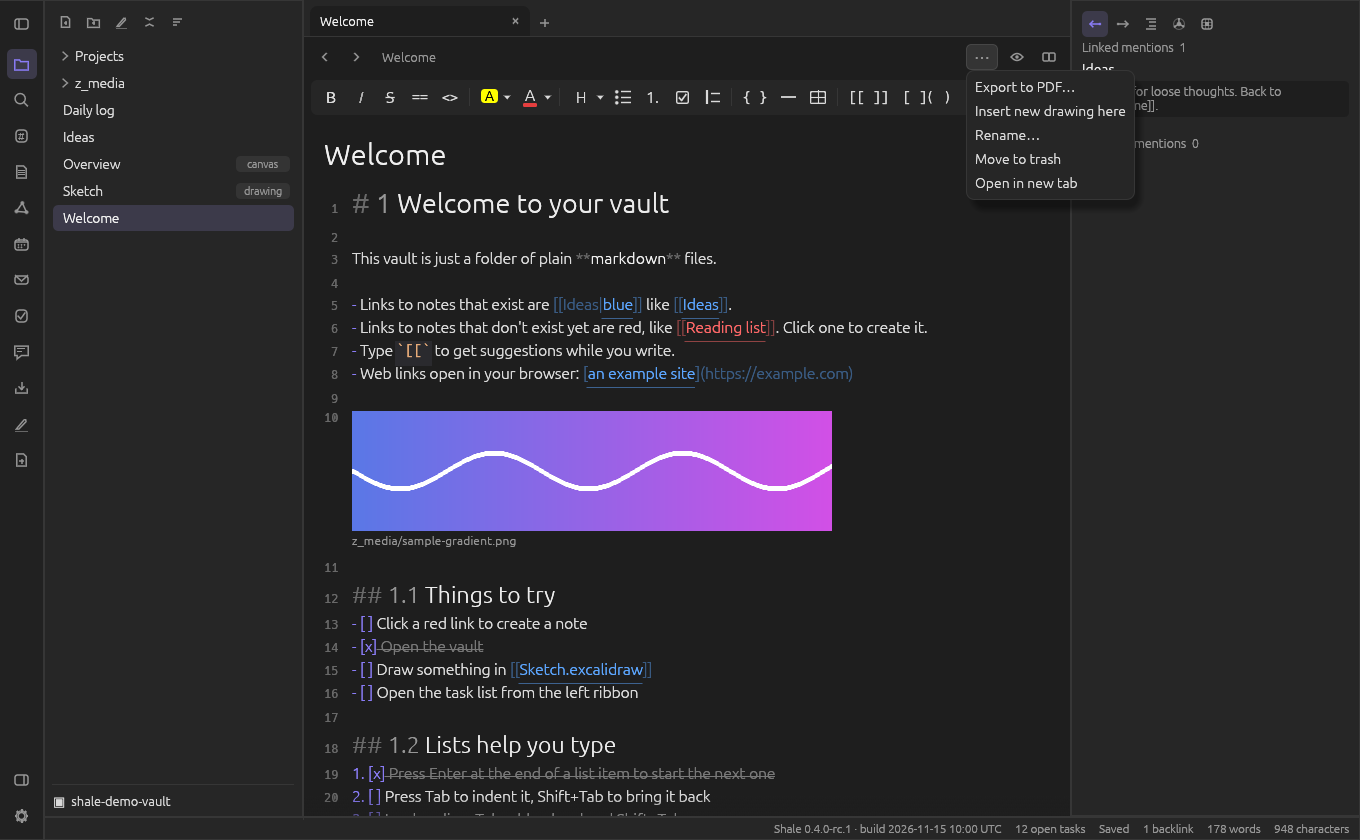
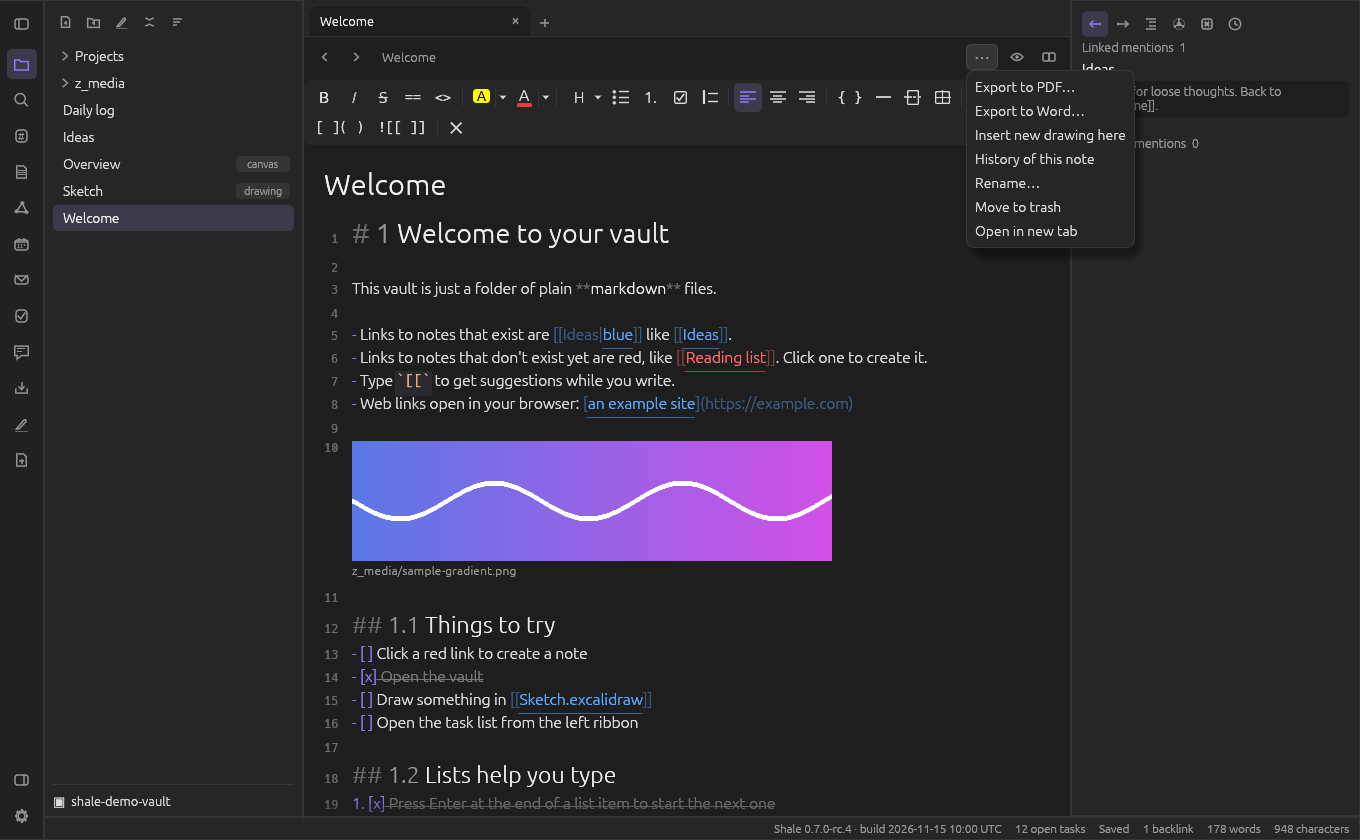
Word export: spec rows IS NOW, user guide, FEATURES, README, changelog, note menu screenshot; tests in export_tests.rs, the private file for pandoc's default reference
Refs #487

diff --git a/src/dialogs_ui_tests.rs b/src/dialogs_ui_tests.rs
@@ -991,10 +991,8 @@ fn docx_001_the_menu_of_a_note_in_the_file_tree_opens_the_word_dialog_and_other_
 // spec: DOCX-001
 #[test]
 fn docx_001_the_dialog_takes_the_contents_box_of_the_pdf_dialog_and_the_original_of_the_source_property() {
-    let mut p = P::with_files(
-        "docx-opens",
-        &[("A.md", "---\nprint-toc: false\n---\n# A\n"), ("Imports/Old.docx", "x"), ("B.md", "---\nsource: \"[[Imports/Old.docx]]\"\n---\n# B\n"), ("C.md", "---\nsource: \"[[Imports/Gone.docx]]\"\n---\n# C\n")],
-    );
+    let mut p =
+        P::with_files("docx-opens", &[("A.md", "---\nprint-toc: false\n---\n# A\n"), ("Imports/Old.docx", "x"), ("B.md", "---\nsource: \"[[Imports/Old.docx]]\"\n---\n# B\n"), ("C.md", "---\nsource: \"[[Imports/Gone.docx]]\"\n---\n# C\n")]);
     p.app.open_docx_export_dialog(Path::new("A.md"));
     let Some(Modal::ExportDocx(d)) = &p.app.modal else { panic!() };
     assert!(!d.toc, "print-toc: false, as the PDF dialog has it (PDF-008, PDF-013)");

diff --git a/src/docx_export/reference.rs b/src/docx_export/reference.rs
@@ -21,7 +21,7 @@ const STYLES: &str = "word/styles.xml";
 /// pandoc's default reference document (`pandoc --print-default-data-file reference.docx`), made in `dir`.
 pub fn default_reference(pandoc: &Path, dir: &Path, cancel: Option<&AtomicBool>) -> Result<Vec<u8>, String> {
     let path = dir.join("default-reference.docx");
-    let out = std::fs::File::create(&path).map_err(|e| format!("could not make a file in the temporary folder: {e}"))?;
+    let out = crate::fsutil::open_private_log(&path, false).map_err(|e| format!("could not make a file in the temporary folder: {e}"))?;
     let mut cmd = Command::new(pandoc);
     cmd.args(["--print-default-data-file", "reference.docx"]);
     let run = proc::run_to_file(cmd, out, Duration::from_secs(20), cancel).map_err(|e| format!("pandoc could not be started: {e}"))?;

diff --git a/src/docx_export.rs b/src/docx_export.rs
@@ -14,7 +14,7 @@ mod reference;
 mod xml;
 
 #[cfg(test)]
-mod tests;
+mod export_tests;
 
 use crate::pdf::tex::compile::WorkDir;
 use crate::pdf::tex::proc::{self, Ending};

diff --git a/docs/spec/word-export.md b/docs/spec/word-export.md
@@ -17,13 +17,13 @@ its look comes from its `print-*` properties (DOCX-008).
 
 | ID | Rule | Status | Code | Test |
 |---|---|---|---|---|
-| DOCX-001 | **Export to Word** (#487). A note's ⋯ menu and the context menu of a note in the file tree have the entry **Export to Word…** below *Export to PDF…* (not for drawings, other files or folders). It opens a dialog: *Save as* (a path field, `<vault>/exports/<note name>.docx`), the box **Use the original Word file as the template** (shown only when the note's `source:` property is a link to a `.docx` file of the vault that exists, DOCX-007; ticked), the box **Table of contents** (ticked as the PDF dialog's box would be for the note: `ExportOptions::with_note_properties`, PDF-008, PDF-013), the box **Open the file afterwards**, and *Export* and *Cancel*. A line says where pandoc was found, or, without pandoc, "pandoc was not found (Settings → Import)" and *Export* is disabled. The export does not need the Word import setting (IMP-036) to be on. | SHOULD BE | `docx_export/dialog.rs`, `layout.rs`, `panels.rs`, `app/docx_export.rs` | |
-| DOCX-002 | **The run** (#487). *Export* starts a background job (JOB-001) and the dialog shows that it works; closing the dialog cancels it. pandoc is run with an argument list, no shell, stdin closed, no console window on Windows (as the import, `pdf/tex/proc.rs`), in a private temporary folder outside the vault that is removed afterwards, and killed after 120 s: `pandoc note.md -f commonmark+pipe_tables+strikeout+footnotes+tex_math_dollars+wikilinks_title_after_pipe+autolink_bare_uris+task_lists -t docx --lua-filter=<filter> --resource-path=<vault folder> --reference-doc=<reference> -o out.docx`, with `--toc --toc-depth=3` when the box *Table of contents* is ticked. The filter (`assets/export/shale-docx-export.lua`) is built into the program and written to that folder. Only when pandoc ends with success and the file is finished (DOCX-009) is it written, atomically, at the path of the dialog (its folder made when missing); the vault is scanned again, the dialog closes, a toast names the file, and it is opened with the system's program when the box says so. A failure writes nothing and the dialog says why (pandoc's first error line). The text exported is the note as the window has it (unsaved typing included). | SHOULD BE | `docx_export/mod.rs` (`export`, `args`), `app/docx_export.rs` | |
-| DOCX-003 | **The text pandoc reads** (#487). The front matter is taken off. Every embed `![[target]]` (with `#…` and `\|…` after the target or not) whose target the vault resolves from the note (`Vault::resolve`, LINK-*) is written with the vault path of its file instead of the target (`![[z_media/a b.png\|300]]`), so pandoc finds it below the vault folder (`--resource-path`); an embed that does not resolve and anything in fenced code or inline code is left as it is. | SHOULD BE | `docx_export/mod.rs` (`prepare_text`) | |
-| DOCX-004 | **Formatting back to Word** (#487). The filter turns Shale's Markdown back into Word formatting: `==text==` and `<mark>` without a colour and with `background: #FFFF00` are Word's yellow highlight; `<span style="color: #RRGGBB;">` is a text colour and `<mark style="background: #RRGGBB;">` another background, each written as a character style with the colours (DOCX-009) named `Shale colour RRGGBB`, `Shale colour RRGGBB on RRGGBB` or `Shale on RRGGBB` (a run has one style, so a colour inside a background, or the other way round, is one style of both), and bold, italic and the other formatting inside them stay; `<u>` underline, `<sub>` and `<sup>` sub and superscript, `<s>` and `~~…~~` strike-through; `<br>` and a new line inside a paragraph are a line break (IMP-037 writes Word's line breaks as new lines); a tag without its end is left out. A link `[[note]]` or `[[note\|words]]` is its words (the note's name without `.md`, `#` as ` > `), as it has no place in the Word file. Footnotes, tables (pipe tables), lists, tasks, quotes, code, math (`$…$`, `$$…$$`, Word's equations) and web links are pandoc's own. | SHOULD BE | `assets/export/shale-docx-export.lua` (`inlines`, `marks`, `tags`, `wikilink`) | |
-| DOCX-005 | **Pictures and captions** (#487). An embed of a picture (png, jpg, jpeg, gif, bmp, tif, tiff, svg, emf, wmf, any case) is a picture in Word; its width is the share of the text width it has in the editor (`\|360` is half of the 720-point column, PDF-005, at most the whole width), without a width it keeps its own size; words after `\|` that are no size are its alternative text. Any other embed (a note, a PDF, a sound, a drawing) is its file name in italics. A paragraph that holds only a picture, followed by a paragraph that is all italic (what the import makes of a Word caption, IMP-037), becomes a picture with that caption (pandoc's *Captioned Figure* and *Image Caption*), and the caption is the picture's alternative text too. | SHOULD BE | `assets/export/shale-docx-export.lua` (`embed`, `caption`, `blocks`) | |
-| DOCX-006 | **Page breaks, alignment and the title** (#487). A page-break marker (PDF-020) is a page break. The paragraphs and headings in an alignment wrapper (PDF-028) are centred, flush right, justified or left (`w:jc` `center`, `right`, `both`, `left`, set by DOCX-009 from a mark the filter puts in each); an opening line without its closing line aligns nothing, and the wrapper lines are never text. The title block the import writes (IMP-042, IMP-046): a centred wrapper as the first thing of the note holding a `#` heading and at most an italic paragraph below it, becomes Word's *Title* and *Subtitle*, not a heading. | SHOULD BE | `assets/export/shale-docx-export.lua` (`blocks`, `title`, `page_break`) | |
-| DOCX-007 | **The original as the template** (#487). With the box ticked (DOCX-001) the reference document is a copy of the original Word file, so its styles, fonts, numbering, headers and footers come back. pandoc adds none of its own styles when the reference is a real Word file, so Shale first merges into the copy's `word/styles.xml` every style of pandoc's default reference (`pandoc --print-default-data-file reference.docx`) whose id and name (case ignored) the original lacks: *Body Text* without its paragraph spacing (the body keeps the original's Normal), and a `w:basedOn`, `w:next` or `w:link` that names a style of pandoc's is renamed to the id of the original's style with the same name (a German Word file calls Normal `Standard`). Without the box, or without an original, the reference is made from the note (DOCX-008). | SHOULD BE | `docx_export/reference.rs` (`merge_styles`, `from_original`) | |
-| DOCX-008 | **The template from the note's print settings** (#487). Without an original the reference document is pandoc's default with the note's `print-*` properties (PDF-013, read as the PDF export reads them, a bad value ignored) laid into `word/styles.xml`: `print-font` (`serif` Times New Roman, `sans` Calibri, `mono` Courier New) for the defaults and every style that names a theme font, `print-font-size` (the defaults' `w:sz`), `print-line-spacing` (`w:line` = factor × 240, `auto`), `print-paragraph-spacing` (`w:after` = pt × 20 in the defaults; *Body Text* loses its own spacing), `print-align: justify` (Normal `w:jc both`, the headings `left`), `print-heading-color` (Heading 1 to 9 and Title), `print-heading-weight` (bold or not), `print-heading-sizes` (Heading 1 to 6) and `print-break-before` (`w:pageBreakBefore` for the headings up to that level). A note without these properties gets pandoc's default look. The Word import of such a file gives the same properties back. | SHOULD BE | `docx_export/reference.rs` (`from_props`) | |
-| DOCX-009 | **Finishing the file** (#487). After pandoc, Shale changes the docx: a paragraph with the filter's mark (DOCX-006) gets its `w:jc` (in the order of the schema, an old one replaced) and the mark goes; a character style `Shale colour …` / `Shale on …` gets `w:color` and a `w:shd` fill; the last `w:sectPr` of the body gets the page of `print-paper` (`w:pgSz`, landscape when wider than tall) and `print-margins` (`w:pgMar`, keeping its header, footer and gutter distances) when the note has them, because pandoc takes the page of the first section of a reference with several; a picture in `word/media/` that no relationship names is left out (pandoc copies the reference's media). The parts are packed again, compressed (deflate), `[Content_Types].xml` first. A file that cannot be finished is an error of the export. | SHOULD BE | `docx_export/finish.rs` (`finish`) | |
-| DOCX-010 | **Word export tests** (#487). The fixtures of the import (`src/testdata/docx/`, IMP-039) are imported with the real pandoc, exported again and read back by pandoc as plain text: the words of `styled`, `picture` and `tables` all come back, of `text` at least 95 % (small caps and the definition list are lost at import); `styled` comes back with its colours, highlights, page breaks, Title, Subtitle and Letter paper. The text preparation, the merging and generating of styles and the finishing are tested without pandoc; the tests that run pandoc skip with a printed note without it (BUILD-018). `scripts/roundtrip-docx.sh <file.docx>` (a developer tool, DEV-004) does the round trip for any Word file and prints the share of words that came back. | SHOULD BE | `docx_export/tests.rs`, `scripts/roundtrip-docx.sh` | |
+| DOCX-001 | **Export to Word** (#487). A note's ⋯ menu and the context menu of a note in the file tree have the entry **Export to Word…** below *Export to PDF…* (not for drawings, other files or folders). It opens a dialog: *Save as* (a path field, `<vault>/exports/<note name>.docx`), the box **Use the original Word file as the template** (shown only when the note's `source:` property is a link to a `.docx` file of the vault that exists, DOCX-007; ticked), the box **Table of contents** (ticked as the PDF dialog's box would be for the note: `ExportOptions::with_note_properties`, PDF-008, PDF-013), the box **Open the file afterwards**, and *Export* and *Cancel*. A line says where pandoc was found, or, without pandoc, "pandoc was not found (Settings → Import)" and *Export* is disabled. The export does not need the Word import setting (IMP-036) to be on. | IS NOW | `docx_export/dialog.rs`, `app/docx_export.rs`, `layout.rs`, `panels.rs` | `docx_export/export_tests.rs::dialog_tests::the_dialog_has_the_save_path_the_table_of_contents_open_after_and_export_and_cancel`, `docx_export/export_tests.rs::dialog_tests::the_box_for_the_original_is_there_with_an_original_and_ticked`, `docx_export/export_tests.rs::dialog_tests::without_pandoc_the_dialog_says_so_and_export_is_disabled`, `docx_export/export_tests.rs::the_original_is_the_word_file_the_source_property_links_to`, `dialogs_ui_tests.rs::docx_001_the_menu_of_a_note_in_the_file_tree_opens_the_word_dialog_and_other_files_have_no_entry`, `dialogs_ui_tests.rs::docx_001_the_dialog_takes_the_contents_box_of_the_pdf_dialog_and_the_original_of_the_source_property`, `dialogs_ui_tests.rs::docx_001_without_pandoc_the_dialog_says_so_and_export_does_nothing`, `format_bar_ui_tests.rs::the_menu_of_a_note_has_export_to_word_below_export_to_pdf_and_it_opens_the_dialog` |
+| DOCX-002 | **The run** (#487). *Export* starts a background job (JOB-001) and the dialog shows that it works; closing the dialog cancels it. pandoc is run with an argument list, no shell, stdin closed, no console window on Windows (as the import, `pdf/tex/proc.rs`), in a private temporary folder outside the vault that is removed afterwards, and killed after 120 s: `pandoc note.md -f commonmark+pipe_tables+strikeout+footnotes+tex_math_dollars+wikilinks_title_after_pipe+autolink_bare_uris+task_lists -t docx --lua-filter=<filter> --resource-path=<vault folder> --reference-doc=<reference> [--toc --toc-depth=3] -M shale-text-width=<inches> -o out.docx`, with `--toc --toc-depth=3` when the box *Table of contents* is ticked; the width is that of the text of the page (DOCX-005). The filter (`assets/export/shale-docx-export.lua`) is built into the program and written to that folder. Only when pandoc ends with success and the file is finished (DOCX-009) is it written, atomically, at the path of the dialog (its folder made when missing); the vault is scanned again, the dialog closes, a toast names the file, and it is opened with the system's program when the box says so. A failure writes nothing and the dialog says why (pandoc's first error line). The text exported is the note as the window has it (unsaved typing included). | IS NOW | `docx_export.rs` (`export`, `args`), `docx_export/dialog.rs`, `app/docx_export.rs`, `pdf/tex/proc.rs` (`run_to_file`), `opener.rs` (`open_exported_docx`) | `docx_export/export_tests.rs::pandoc_is_started_with_an_argument_list_for_the_note_the_filter_the_folder_and_the_reference`, `docx_export/export_tests.rs::pandoc_runs_in_a_folder_of_its_own_with_the_arguments_and_a_failure_writes_nothing_and_says_why`, `docx_export/export_tests.rs::pandoc_is_killed_after_the_time_and_when_the_export_is_cancelled`, `docx_export/export_tests.rs::a_pandoc_that_is_missing_is_an_error_and_so_is_an_original_that_is_no_word_file`, `docx_export/export_tests.rs::the_table_of_contents_is_there_when_asked_down_to_the_third_level`, `docx_export/export_tests.rs::dialog_tests::the_export_runs_as_a_job_the_dialog_shows_it_and_cancel_and_closing_stop_it`, `dialogs_ui_tests.rs::docx_002_export_runs_as_a_job_saves_the_file_where_asked_scans_the_vault_and_closes`, `dialogs_ui_tests.rs::docx_002_a_pandoc_that_fails_leaves_the_dialog_open_with_its_first_error_line_and_writes_nothing`, `opener.rs::an_exported_word_file_is_a_docx`, `pdf/tex/proc.rs::the_standard_output_of_a_program_can_go_to_a_file` |
+| DOCX-003 | **The text pandoc reads** (#487). The front matter is taken off. Every embed `![[target]]` (with `#…` and `\|…` after the target or not) whose target the vault resolves from the note (`Vault::resolve`, LINK-*) is written with the vault path of its file instead of the target (`![[z_media/a b.png\|300]]`), so pandoc finds it below the vault folder (`--resource-path`); an embed that does not resolve and anything in fenced code or inline code is left as it is. | IS NOW | `docx_export.rs` (`prepare_text`) | `docx_export/export_tests.rs::the_front_matter_is_taken_off_and_a_note_without_it_stays`, `docx_export/export_tests.rs::an_embed_that_resolves_has_the_vault_path_of_its_file_with_what_follows_the_target`, `docx_export/export_tests.rs::nothing_in_code_is_changed` |
+| DOCX-004 | **Formatting back to Word** (#487). The filter turns Shale's Markdown back into Word formatting: `==text==` and `<mark>` without a colour and with `background: #FFFF00` are Word's yellow highlight; `<span style="color: #RRGGBB;">` is a text colour and `<mark style="background: #RRGGBB;">` another background, each written as a character style with the colours (DOCX-009) named `Shale colour RRGGBB`, `Shale colour RRGGBB on RRGGBB` or `Shale on RRGGBB` (a run has one style, so a colour inside a background, or the other way round, is one style of both), and bold, italic and the other formatting inside them stay; `<u>` underline, `<sub>` and `<sup>` sub and superscript, `<s>` and `~~…~~` strike-through; `<br>` and a new line inside a paragraph are a line break (IMP-037 writes Word's line breaks as new lines); a tag without its end is left out. A link `[[note]]` or `[[note\|words]]` is its words (the note's name without `.md`, `#` as ` > `), as it has no place in the Word file. Footnotes, tables (pipe tables), lists, tasks, quotes, code, math (`$…$`, `$$…$$`, Word's equations) and web links are pandoc's own. | IS NOW | `assets/export/shale-docx-export.lua` (`inlines`, `marks`, `tags`, `wikilink`) | `docx_export/export_tests.rs::a_mark_and_a_yellow_background_are_words_yellow_highlight`, `docx_export/export_tests.rs::a_text_colour_and_a_background_are_a_character_style_of_the_colours_and_other_formatting_stays_inside`, `docx_export/export_tests.rs::underline_sub_and_superscript_strike_through_and_line_breaks`, `docx_export/export_tests.rs::a_tag_without_its_end_is_left_out_and_a_link_to_a_note_is_its_words`, `docx_export/export_tests.rs::footnotes_tables_lists_tasks_quotes_code_math_and_web_links_are_pandocs_own` |
+| DOCX-005 | **Pictures and captions** (#487). An embed of a picture (png, jpg, jpeg, gif, bmp, tif, tiff, svg, emf, wmf, any case) is a picture in Word; its width is the share of the text width that it has in the editor (`\|360` is half of the 720-point column, PDF-005, at most the whole width), taken of the width of the text of the Word page, which Shale gives the filter in inches (`shale-text-width`, DOCX-002: pandoc's docx writer takes no width as a share of the page); without a width it keeps its own size; words after `\|` that are no size are its alternative text. Any other embed (a note, a PDF, a sound, a drawing) is its file name in italics. A paragraph that holds only a picture, followed by a paragraph that is all italic (what the import makes of a Word caption, IMP-037), becomes a picture with that caption (pandoc's *Captioned Figure* and *Image Caption*), and the caption is the picture's alternative text too. | IS NOW | `assets/export/shale-docx-export.lua` (`embed`, `caption`, `blocks`), `docx_export/reference.rs` (`text_width`) | `docx_export/export_tests.rs::a_picture_is_as_wide_as_in_the_editor_and_other_embeds_are_their_names_in_italics`, `docx_export/export_tests.rs::a_picture_alone_followed_by_an_italic_paragraph_is_a_picture_with_its_caption`, `docx_export/export_tests.rs::the_text_width_is_that_of_the_notes_page_else_of_the_first_section_of_the_reference_else_words_default`, `docx_export/export_tests.rs::the_picture_comes_back_as_a_picture_with_its_caption_and_alternative_text_and_the_originals_pictures_are_not_copied` |
+| DOCX-006 | **Page breaks, alignment and the title** (#487). A page-break marker (PDF-020) is a page break. The paragraphs and headings in an alignment wrapper (PDF-028) are centred, flush right, justified or left (`w:jc` `center`, `right`, `both`, `left`, set by DOCX-009 from a mark the filter puts in each); an opening line without its closing line aligns nothing, and the wrapper lines are never text. The title block the import writes (IMP-042, IMP-046): a centred wrapper as the first thing of the note holding a `#` heading and at most an italic paragraph below it, becomes Word's *Title* and *Subtitle*, not a heading. | IS NOW | `assets/export/shale-docx-export.lua` (`blocks`, `title`, `page_break`), `docx_export/finish.rs` (`alignment`) | `docx_export/export_tests.rs::a_page_break_marker_is_a_page_break`, `docx_export/export_tests.rs::paragraphs_and_headings_in_an_alignment_wrapper_are_aligned_and_the_wrapper_lines_are_no_text`, `docx_export/export_tests.rs::the_title_block_the_import_writes_is_words_title_and_subtitle`, `docx_export/export_tests.rs::a_marked_paragraph_gets_its_jc_in_the_order_of_the_schema_and_the_mark_goes` |
+| DOCX-007 | **The original as the template** (#487). With the box ticked (DOCX-001) the reference document is a copy of the original Word file, so its styles, fonts, numbering, headers and footers come back. pandoc adds none of its own styles when the reference is a real Word file, so Shale first merges into the copy's `word/styles.xml` every style of pandoc's default reference (`pandoc --print-default-data-file reference.docx`) whose id and name (case ignored) the original lacks: *Body Text* without its paragraph spacing (the body keeps the original's Normal), without a `w:default` (the original has its defaults), and a `w:basedOn`, `w:next` or `w:link` that names a style of pandoc's is renamed to the id of the original's style with the same name (a German Word file calls Normal `Standard`). Without the box, or without an original, the reference is made from the note (DOCX-008). | IS NOW | `docx_export/reference.rs` (`merge_styles`, `from_original`) | `docx_export/export_tests.rs::the_styles_of_pandoc_are_merged_into_the_originals_without_double_ones`, `docx_export/export_tests.rs::a_style_that_names_another_of_pandoc_is_renamed_to_the_id_the_original_has_for_that_name`, `docx_export/export_tests.rs::the_template_is_a_copy_of_the_original_with_its_parts_and_the_merged_styles`, `docx_export/export_tests.rs::the_original_of_a_word_file_is_the_template_with_its_styles_and_the_styles_pandoc_needs_merged_in` |
+| DOCX-008 | **The template from the note's print settings** (#487). Without an original the reference document is pandoc's default with the note's `print-*` properties (PDF-013, read as the PDF export reads them, a bad value ignored) laid into `word/styles.xml`: `print-font` (`serif` Times New Roman, `sans` Calibri, `mono` Courier New) for the defaults and every style that names a theme font, `print-font-size` (the defaults' `w:sz`), `print-line-spacing` (`w:line` = factor × 240, `auto`), `print-paragraph-spacing` (`w:after` = pt × 20 in the defaults; *Body Text* loses its own spacing), `print-align: justify` (Normal `w:jc both`, the headings `left`), `print-heading-color` (Heading 1 to 9 and Title), `print-heading-weight` (bold or not), `print-heading-sizes` (Heading 1 to 6) and `print-break-before` (`w:pageBreakBefore` for the headings up to that level). A note without these properties gets pandoc's default look. The Word import of such a file gives the same properties back (`print-break-before: 2` comes back as `1`: the import takes the first level that starts a page, IMP-044). | IS NOW | `docx_export/reference.rs` (`from_props`, `lay_props`), `docx_export/look.rs` (`PrintLook`), `docx_export/xml.rs` | `docx_export/export_tests.rs::every_print_property_is_laid_into_the_styles`, `docx_export/export_tests.rs::the_properties_are_put_where_the_schema_wants_them`, `docx_export/export_tests.rs::the_fonts_the_weight_and_the_page_break_level_follow_the_property`, `docx_export/export_tests.rs::a_bad_value_is_ignored_as_in_the_pdf_export_and_a_note_without_properties_gets_the_default_as_it_is`, `docx_export/export_tests.rs::the_word_import_gives_the_properties_back`, `docx_export/export_tests.rs::a_note_without_an_original_gets_a_reference_from_its_print_properties_and_the_import_reads_them_back` |
+| DOCX-009 | **Finishing the file** (#487). After pandoc, Shale changes the docx: a paragraph with the filter's mark (DOCX-006) gets its `w:jc` (in the order of the schema, an old one replaced) and the mark goes; a character style `Shale colour …` / `Shale on …` gets `w:color` and a `w:shd` fill; the last `w:sectPr` of the body gets the page of `print-paper` (`w:pgSz`, landscape when wider than tall) and `print-margins` (`w:pgMar`, keeping its header, footer and gutter distances) when the note has them, because pandoc takes the page of the first section of a reference with several; a picture in `word/media/` that the part it belongs to does not use (no `r:embed`, `r:link` or `r:id` of the part names its relationship) is left out with its relationship (pandoc copies the reference's media and relationships). The parts are packed again, compressed (deflate), `[Content_Types].xml` first. A file that cannot be finished is an error of the export. | IS NOW | `docx_export/finish.rs` (`finish`), `docx_export/package.rs`, `import/docx_look.rs` (`zip_bytes`), `pdf/tex/archive.rs` (`read_zip_files`) | `docx_export/export_tests.rs::a_marked_paragraph_gets_its_jc_in_the_order_of_the_schema_and_the_mark_goes`, `docx_export/export_tests.rs::the_character_styles_of_the_colours_get_their_colour_and_fill`, `docx_export/export_tests.rs::the_last_section_gets_the_page_and_the_margins_of_the_note_and_keeps_its_header_footer_and_gutter`, `docx_export/export_tests.rs::a_picture_that_its_part_does_not_use_is_left_out_with_its_relationship_and_the_file_is_compressed`, `docx_export/export_tests.rs::a_file_that_cannot_be_finished_is_an_error`, `docx_export/export_tests.rs::the_zip_is_compressed_where_that_helps_and_reads_back_with_the_same_parts`, `docx_export/export_tests.rs::a_package_is_read_changed_and_packed_with_the_content_types_first` |
+| DOCX-010 | **Word export tests** (#487). The fixtures of the import (`src/testdata/docx/`, IMP-039) are imported with the real pandoc, exported again and read back by pandoc as plain text: the words of `styled`, `picture` and `tables` all come back, of `text` at least 95 % (small caps and the definition list are lost at import); `styled` comes back with its colours, highlights, page breaks, Title, Subtitle and Letter paper. The text preparation, the merging and generating of styles and the finishing are tested without pandoc; the tests that run pandoc skip with a printed note without it (BUILD-018). `scripts/roundtrip-docx.sh <file.docx>` (a developer tool, DEV-004) does the round trip for any Word file and prints the share of words that came back. | IS NOW | `docx_export/export_tests.rs`, `scripts/roundtrip-docx.sh` | `docx_export/export_tests.rs::the_words_of_styled_picture_and_tables_all_come_back_and_those_of_text_nearly_all`, `docx_export/export_tests.rs::styled_comes_back_with_its_colours_highlights_page_breaks_title_and_paper`, `docx_export/export_tests.rs::tables_come_back_as_tables_and_a_german_original_is_a_template_pandoc_can_use`, `docx_export/export_tests.rs::dev_004_roundtrip_imports_and_exports_a_word_file_and_prints_the_share_of_words_that_came_back` (ignored, run by the script) |

diff --git a/docs/userguide/Import.md b/docs/userguide/Import.md
@@ -91,6 +91,37 @@ after the file (spaces become `-`; a number is added when the name is taken): th
 "Keep the original .docx" ticked, the original, which the note names in its properties as `source`. If pandoc
 cannot read the file, nothing is written and a message names the file and pandoc's first error line.
 
+# Export to Word
+
+A note becomes a Word file again with **⋯ → Export to Word…** in the note's menu (also in the context menu of a note in the
+file list), by the same **pandoc** that imports Word files; the setting "Import Word files as notes" does not have to be on.
+The dialog asks where to save (`<vault>/exports/<name>.docx`, so the export shows up in the vault), whether to put a **Table of
+contents** in (on or off as the [[PDF]] dialog has it for the note; Word asks to update its fields when it opens the file, say
+yes to fill the contents in), whether to **Open the file afterwards**, and says where pandoc was found, or that it was not
+(Export then waits). The export runs in the background: closing the dialog, or **Cancel**, stops it, and a file is written only
+when it is whole; if pandoc fails, nothing is written and the dialog shows pandoc's first error line. The note is exported as
+the window has it, typing you have not saved yet included.
+
+A note that was imported from a Word file, with its original kept, has the box **Use the original Word file as the template**
+(ticked): the new file takes the styles, fonts, numbering, headers and footers of the original, so a Word file that goes into
+Shale and comes out again looks like itself. Without it, or for a note you wrote, the look comes from the note's `print-*`
+properties ([[PDF#Print properties of a note]]): the paper and margins of the page, the font, size, line and paragraph
+spacing, justified text, the colour, weight and sizes of the headings and the headings that start a page. A note that says
+nothing gets pandoc's own look.
+
+What comes through: headings, bold, italic, underline, strike-through, sub- and superscript, lists, tasks (as boxes), tables,
+quotes, code, footnotes, math (as Word's equations), web links, highlights (`==text==` and yellow are Word's highlight; other
+background colours and text colours are kept as colours), page breaks, centred, right-aligned and justified paragraphs, and
+the title block the import makes (a centred `#` heading with an italic line, as Word's *Title* and *Subtitle*). A picture is
+as wide in proportion to the text as in the editor, and a picture followed by an italic paragraph has it as its caption and
+as its alternative text. A link to another note is its words, and an embed of a note, a PDF or a sound is its name in
+italics: Word has no place for them.
+
+What the import already lost cannot come back: the cells that were merged in a table (they come back as empty cells),
+the numbers of figures and tables (Word fields), tab stops, the line spacing of single paragraphs, small caps, and the page
+setup of every section but the last. Whatever else is in the file, check it in Word; `scripts/roundtrip-docx.sh <file.docx>`
+shows developers the share of the words that came back.
+
 People and tags are found automatically: [[Tags and people]]. On Wayland Shale reads what
 Thunderbird hands over; when that is only a link to the message, Shale finds the message in
 Thunderbird's local copy (IMAP accounts need "Keep messages for this account on this

diff --git a/docs/FEATURES.md b/docs/FEATURES.md
@@ -849,6 +849,19 @@ key or a passphrase, never looks a key up on the network by itself, and tells yo
   without pandoc, a `.docx` is an attachment as before; the dialog says when pandoc is missing.
 
   ![The Import tab of Settings](userguide/z_media/screenshots/settings-import.png)
+- **Export to Word** (DOCX-001 to DOCX-010, rabalyn/shale#487): a note's ⋯ menu and its context menu in the file list have **Export to Word…**,
+  the reverse of the Word import, by the same `pandoc` (the Word import setting need not be on). The dialog saves to `<vault>/exports/<name>.docx`
+  and has the boxes **Use the original Word file as the template** (for a note imported with its original kept, its `source:` property),
+  **Table of contents** and **Open the file afterwards**; the export is a background job that Cancel stops, and nothing is written when it
+  fails. Shale cleans the note's text (front matter off, embeds by their vault path), pandoc reads it with commonmark and a Lua filter of
+  Shale's (highlights, text and background colours, underline, sub- and superscript, strike-through, line breaks, links to notes as their words,
+  pictures as wide as in the editor with their captions as alternative text, page breaks, alignment wrappers, the import's title block as Word's
+  Title and Subtitle), with a reference document that is a copy of the original (pandoc's own styles merged into its styles) or pandoc's default
+  with the note's `print-*` properties laid into its styles (font, size, spacing, justified, heading colour, weight and sizes, headings that
+  start a page), and Shale finishes the file (alignment, colour styles, the page and margins of the note in the last section, unused pictures
+  out, compressed). Docx → note → docx keeps what the import kept: the words of the fixtures come back (all of them, 95 % of `text.docx`);
+  merged cells, figure and table numbers, tab stops, line spacing of single paragraphs, small caps and all but the last section's page are lost
+  at import. `scripts/roundtrip-docx.sh <file.docx>` prints the share of the words of any Word file that comes back.
 
 - Choose the folder (one per project, for example) and tags. Small pictures from signatures are
   left out by default, and each attachment can be ticked on or off.

diff --git a/docs/userguide/Settings reference.md b/docs/userguide/Settings reference.md
@@ -200,10 +200,10 @@ cannot use are shown with the reason in Settings → Search, and read as `f`, `m
 |---|---|---|
 | `docx_import` | off | Settings → Import, "Import Word files as notes (needs pandoc)"; global config |
 | `import_header_list` | off | Settings → Import, "Header list in the note body" (e-mails, events and saved posts); the start value of the box of the same name in the Import dialog |
-| `pandoc_path` | empty (search `PATH`, then `/opt/homebrew/bin`, `/usr/local/bin`, `/usr/bin`, and on Windows `%LOCALAPPDATA%\Pandoc` and `%ProgramFiles%\Pandoc`) | Settings → Import, "pandoc program" |
+| `pandoc_path` | empty (search `PATH`, then `/opt/homebrew/bin`, `/usr/local/bin`, `/usr/bin`, and on Windows `%LOCALAPPDATA%\Pandoc` and `%ProgramFiles%\Pandoc`) | Settings → Import, "pandoc program" (the Word export looks for pandoc the same way) |
 
 To set it up: install pandoc (Linux `sudo pacman -S pandoc-cli` or `sudo apt install pandoc`, macOS `brew install pandoc`,
-Windows `winget install JohnMacFarlane.Pandoc`), tick the box and press Check again.
+Windows `winget install JohnMacFarlane.Pandoc`), tick the box and press Check again. The export of a note to Word (the note's ⋯ menu) needs pandoc too, but not the box.
 
 ## LaTeX ([[PDF]])
 

diff --git a/docs/changelog-pending/I487.md b/docs/changelog-pending/I487.md
@@ -1,0 +1,4 @@
+### Added
+
+- A note can be exported as a Word file (`.docx`): **⋯ → Export to Word…** in the note's menu, or in the context menu of a note in the file list. It is the reverse of the Word import and uses the same pandoc (the Word import setting does not have to be on). The dialog saves to `<vault>/exports/<name>.docx`, has the boxes "Use the original Word file as the template" (for a note imported from Word with its original kept: its styles, fonts, numbering, headers and footers come back), "Table of contents" and "Open the file afterwards", and runs in the background. Highlights, text and background colours, underline, sub- and superscript, strike-through, pictures at the size you see with their captions, page breaks, centred, right and justified paragraphs, the import's title block, lists, tables, footnotes and math come through; a note's `print-*` properties set the page, font, spacing and headings of the file. What the Word import lost (merged cells, figure numbers, tab stops, small caps) cannot come back (#487).
+- For developers: `scripts/roundtrip-docx.sh <file.docx>` imports a Word file, exports the note again and prints the share of the words that came back (#487).

diff --git a/README.md b/README.md
@@ -114,7 +114,7 @@ What differs from Linux:
   system's video player and Settings says so; everything else works.
 - **Word files** (`.docx`) are imported as notes by `pandoc` on your computer, once you turn it on in Settings →
   Import (`brew install pandoc` on macOS, `winget install JohnMacFarlane.Pandoc` on Windows, your package
-  manager on Linux). Without it a `.docx` is saved as an attachment and the Import dialog says so.
+  manager on Linux). Without it a `.docx` is saved as an attachment and the Import dialog says so. The same pandoc exports a note as a Word file again (⋯ → Export to Word…), with the original as the template when the note came from Word.
 - **CalDAV** and **git sync** need `curl` and `git` on the path (`curl` comes with macOS and Windows 10 and later).
   For git, Settings → Sync can install one with a button (Windows: MinGit and git-lfs from the official releases into
   Shale's data folder; macOS: Apple's command line tools; Linux: it shows your distribution's install command), after

diff --git a/docs/userguide/PDF.md b/docs/userguide/PDF.md
@@ -6,6 +6,7 @@ Notes and drawings export to PDF from the note menu, with no external tools: the
 selectable (fonts are embedded), web links stay clickable and drawings are vector. A dialog
 sets paper size, margins, fonts and more. The default path is `<vault>/exports/<name>.pdf`, so
 the export shows up in the vault.
+The same note can also become a Word file: see [[Import#Export to Word]].
 
 A **Table of contents** (a checkbox in the dialog, on by default) puts a *Contents* page after the title: the
 `#`–`###` headings, indented by level, with their numbers (see [[Notes and links]]), a dotted leader and the page

diff --git a/docs/userguide/Notes and links.md b/docs/userguide/Notes and links.md
@@ -78,7 +78,7 @@ a name without it and the message says so ([[Vault settings]]).
 
 ![[more-menu.png]]
 
-Export to PDF ([[PDF]]), insert a new drawing, rename, or move to the trash. The trash keeps
+Export to PDF ([[PDF]]), export to Word ([[Import#Export to Word]]), insert a new drawing, rename, or move to the trash. The trash keeps
 the original folder (`.trash/<date>/<path>`), and "Restore last deleted" in the file list's
 context menu brings the last item back.
 
